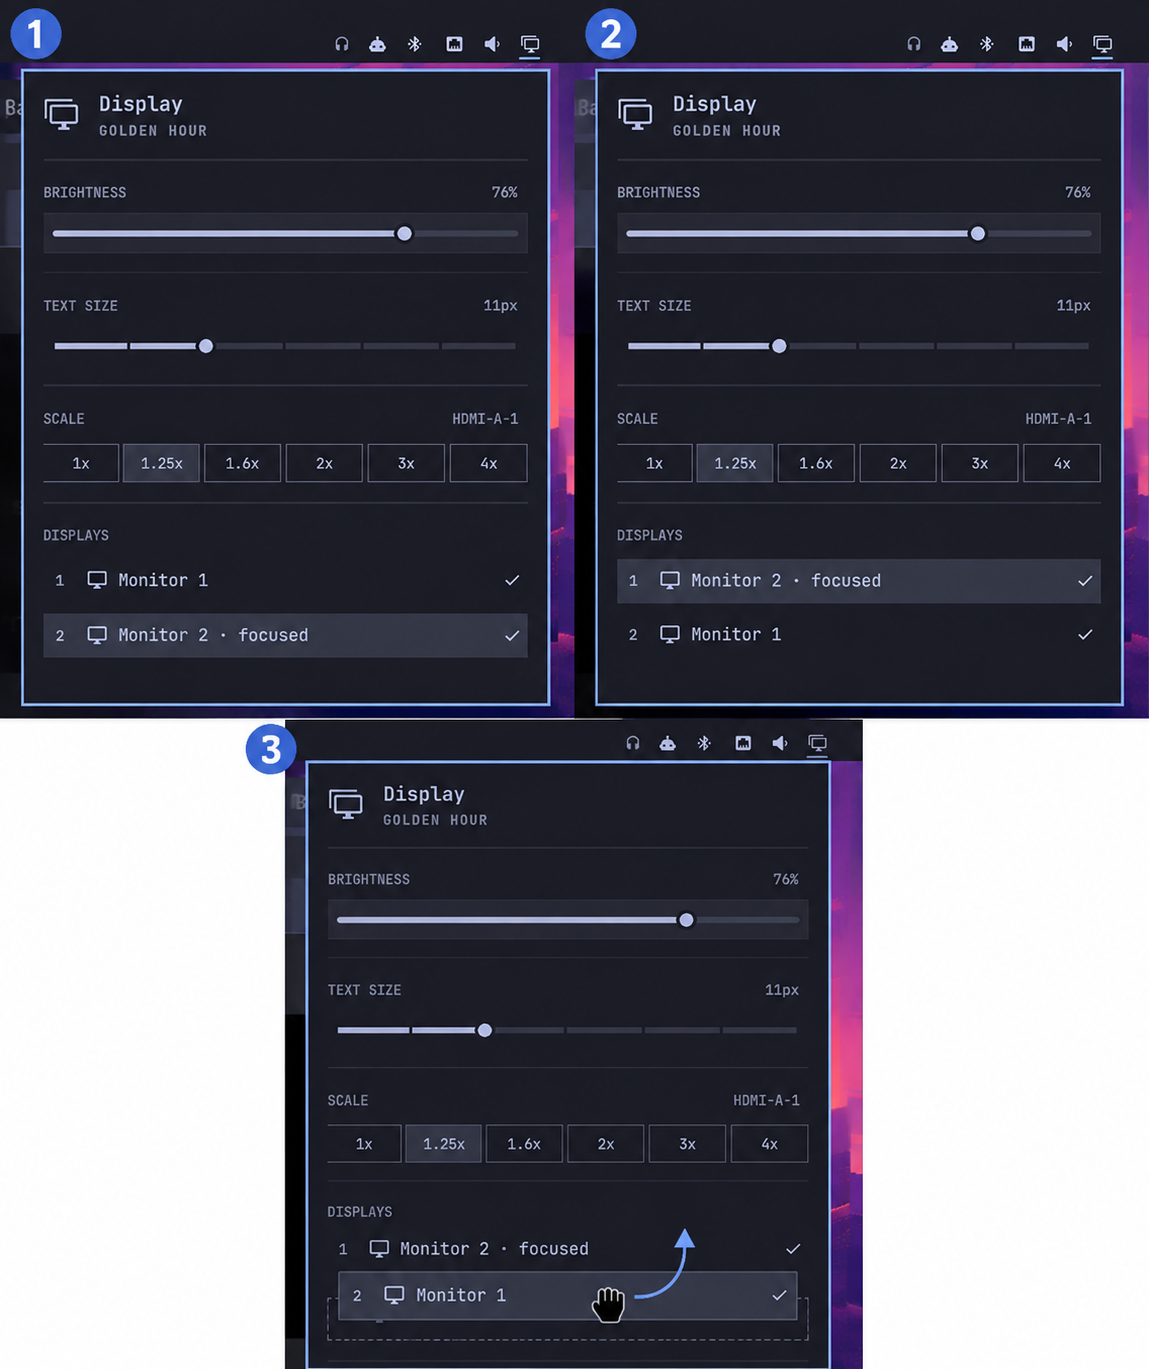
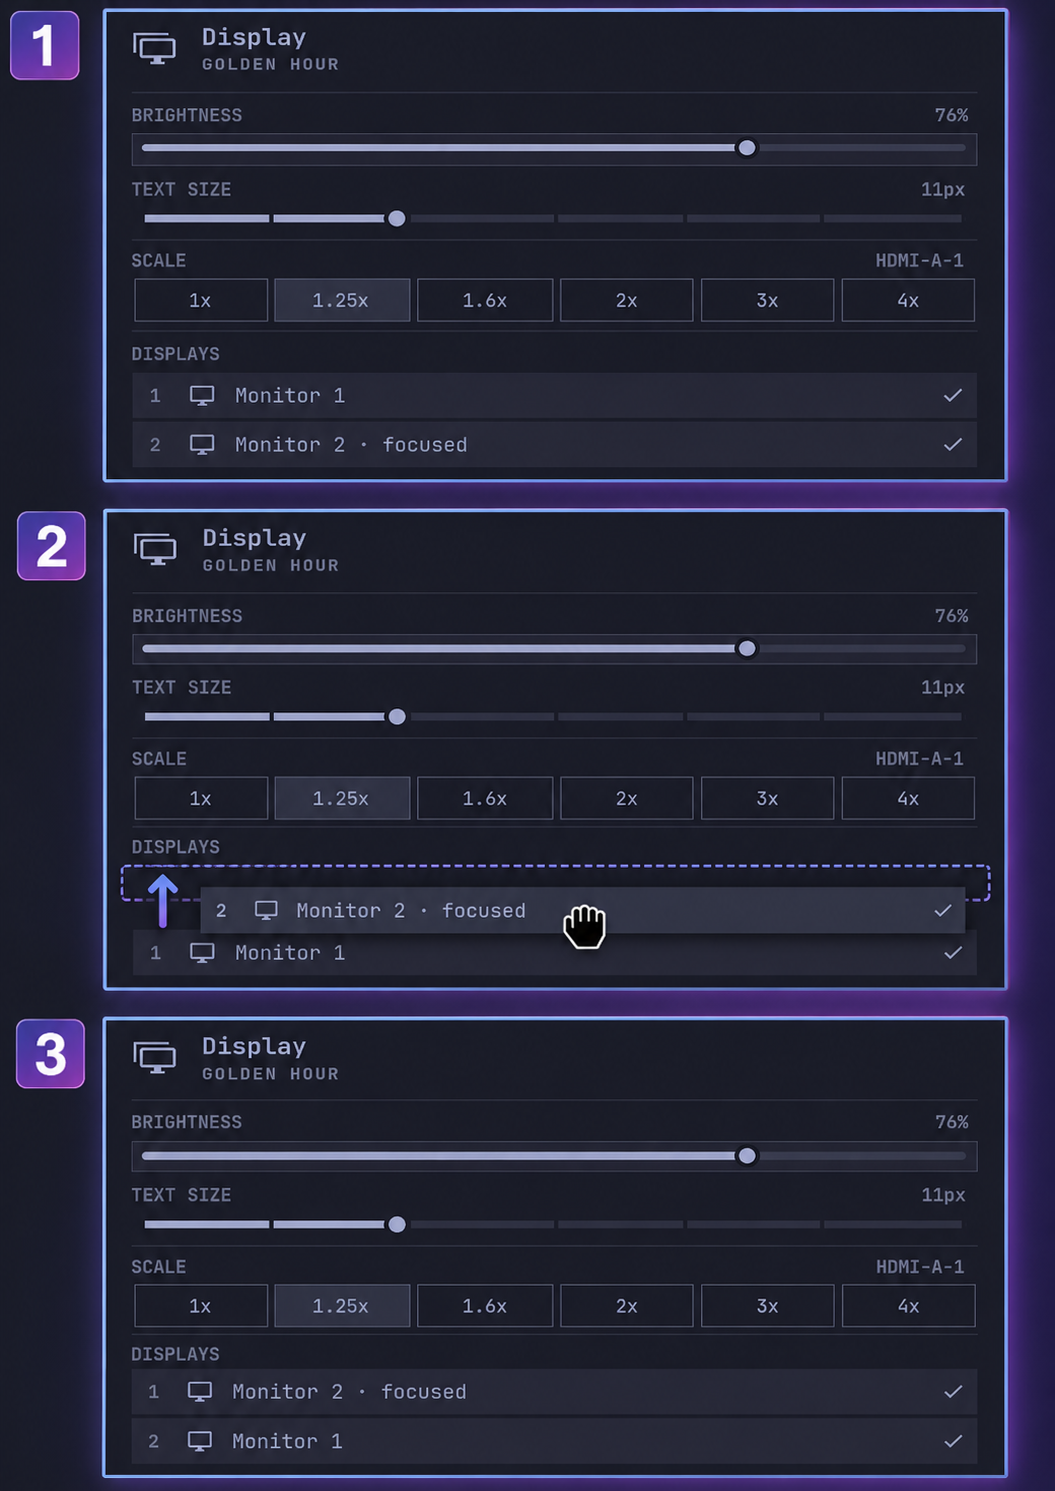
docs: clarify display order behavior

diff --git a/README.md b/README.md
@@ -1,119 +1,126 @@
 # Omarchy Display Order
 
-Drag-and-drop display ordering for Omarchy. Arrange your monitors visually and keep Hyprland display layout and scaling in sync.
+Ordene visualmente os monitores do Omarchy e mantenha a disposição lógica e a escala do Hyprland em sincronia.
 
-## What it does
+## Visão geral
 
-Omarchy Display Order adds numbering and drag-and-drop ordering to Omarchy's **Displays** section. For example:
-
-```text
-1 Monitor 1
-2 Monitor 2
-```
-
-Dragging a row changes the logical left-to-right arrangement in Hyprland. For example:
+O plugin adiciona numeração e arrastar-e-soltar à seção **Displays** do Omarchy. Ele reordena e identifica somente displays **habilitados e não espelhados**.
 
 ```text
-Before:
-1 Monitor 1
-2 Monitor 2
-
-After dragging Monitor 2 upward:
-1 Monitor 2
-2 Monitor 1
+Antes                         Depois de arrastar o Monitor 2
+1  Monitor 1                  1  Monitor 2
+2  Monitor 2                  2  Monitor 1
 ```
 
-- Drag-and-drop display ordering
-- Hover-to-identify physical displays
-- Automatic logical positioning
-- Scale-aware layout calculations
-- Persistence across reboot
-- Reload-safe monitor configuration
-- Support for one, two, or three or more monitors
+Ao soltar uma linha, a primeira posição vira o monitor lógico mais à esquerda; as demais seguem da esquerda para a direita. O plugin muda a geometria dos displays, não move janelas entre saídas físicas.
 
-## Screenshots
+### Recursos
 
-Drag a monitor row to change the left-to-right display order.
+- Arrastar-e-soltar para reordenar displays.
+- Identificação do monitor físico ao manter o cursor sobre uma linha.
+- Posicionamento lógico automático, considerando escala e rotação.
+- Escala no monitor em foco.
+- Ajuste de brilho e tamanho do texto.
+- Ativar ou desativar monitores (o último display ativo não pode ser desativado).
+- Persistência da ordem e restauração segura após recarregamentos.
 
-![Dragging Monitor 1 below Monitor 2 changes their logical order](assets/drag-and-drop-ordering.png)
+## Exemplo visual
 
-## Requirements
+Arraste uma linha para alterar a ordem lógica da esquerda para a direita:
 
-- Omarchy 4.0.1-1, using its shell plugin system and `omarchy plugin` commands
-- Hyprland 0.56.2
-- `hyprctl`, `jq`, `flock`, and `luac` (provided by the development installation)
+![Arrastar uma linha de monitor altera a ordem lógica](assets/drag-and-drop-ordering.png)
 
-These are the versions and features used during development and validation. Compatibility with other Omarchy or Hyprland versions has not been tested.
+## Requisitos
 
-## Installation
+- Omarchy 4.0.1-1, com o sistema de plugins e os comandos `omarchy plugin`.
+- Hyprland 0.56.2.
+- `hyprctl`, `jq`, `flock` e `luac` (requisitos de execução do plugin; `luac` é necessário para validar e atualizar `monitors.lua`).
 
-Install with Omarchy's official plugin mechanism:
+Estas são as versões usadas no desenvolvimento e na validação. A compatibilidade com outras versões de Omarchy ou Hyprland não foi testada.
+
+## Instalação
+
+Instale pelo mecanismo oficial de plugins do Omarchy:
 
 ```bash
 omarchy plugin add https://github.com/rsendres/omarchy-display-order.git --enable
 ```
 
+## Uso
 
-## Usage
+Abra **Setup → Display**. Em **DISPLAYS**, arraste as linhas numeradas até a ordem desejada.
 
-Open **Setup → Display**. In **DISPLAYS**, drag the numbered monitor rows into the desired order.
+### Identificar um display
 
-The first row becomes the leftmost logical display in Hyprland, followed by the remaining rows from left to right.
+Mantenha o ponteiro sobre uma linha por dois segundos. O número da linha aparece no canto superior esquerdo do display físico correspondente e permanece enquanto o cursor estiver sobre a linha. Ele desaparece ao sair; durante o arrastar-e-soltar, a identificação fica desativada. O plugin usa o nome da saída do Hyprland, como `DP-2` ou `HDMI-A-1`.
 
-When displays are explicitly reordered and their active workspaces are exactly the default numeric set `1..N`, the plugin renumbers those workspace IDs to match the new display slots. This does not move workspaces, windows, or clients between physical outputs. Custom, named, mixed, and special workspaces are left untouched; only the display geometry changes.
+### Escala, brilho e texto
 
-### Identify a display
+- **Scale** atua no monitor em foco e só pode ser aplicado com um `order.json` válido e com o monitor em foco habilitado e não espelhado.
+- As predefinições de escala são reduzidas à unidade válida mais próxima de `1/120`. A interface mostra duas casas decimais; a configuração gerada preserva seis algarismos significativos.
+- **Brightness** ajusta o brilho por meio de `omarchy-brightness-display` quando o controle está disponível; a disponibilidade é determinada pelo retorno válido desse comando.
+- **Text size** ajusta o tamanho do texto na interface.
+- Os controles de habilitar/desabilitar monitor respeitam a regra de que sempre deve restar um display ativo.
 
-Park the mouse pointer over a monitor row for two seconds to print its current
-list number on that physical display, in the upper-left corner. The identifier
-remains visible while the pointer stays on the row, disappears immediately on
-exit, and is disabled during drag-and-drop. It uses the Hyprland output name
-(for example, `DP-2` or `HDMI-A-1`) to select the matching physical display.
+### Workspaces
 
-## How it works
+Durante uma reordenação explícita, o plugin pode renumerar temporariamente apenas os workspaces base padrão elegíveis quando o conjunto ativo for exatamente `1..N` **e** os nomes corresponderem aos padrões. Workspaces nomeados, mistos ou especiais não são renumerados nem gerenciados permanentemente pelo plugin. A alteração não move janelas entre saídas físicas.
 
-- `order.json` is the source of the preferred monitor order.
-- Hyprland receives a layout with `0x0` for the first monitor and `auto-right` for each following monitor.
-- Logical widths account for each monitor's scale and rotation.
-- Scale presets are reduced to the nearest mode-valid `1/120` unit. The UI presents the effective value to two decimal places, while the generated monitor configuration preserves six significant digits.
-- A managed block in `monitors.lua` makes reloads safe.
-- `Service.qml` restores the saved display order/layout during startup. The plugin neither imposes workspace numbers nor creates or permanently manages workspaces.
+```mermaid
+flowchart LR
+    A[Ordem salva] --> B{Workspaces ativos = 1..N<br/>com nomes padrão?}
+    B -- Sim --> C[Renumerar workspaces base]
+    B -- Não --> D[Manter workspaces]
+    C --> E[Aplicar geometria dos displays]
+    D --> E
+```
 
-## Uninstall / rollback
+## Persistência e restauração
 
-If the managed monitor block should be removed before uninstalling, run:
+- `order.json` é a fonte da ordem preferida dos monitores.
+- A geometria ao vivo pode usar coordenadas calculadas. As regras persistidas usam `0x0` no primeiro monitor e `auto-right` nos seguintes.
+- Na inicialização, a restauração exige uma ordem salva e o contexto de sessão/runtime do Hyprland. Ela roda uma vez por assinatura de sessão do Hyprland; se falhar, não fica tentando indefinidamente na mesma sessão.
+- Um bloco gerenciado em `monitors.lua` torna os recarregamentos seguros.
+
+## Recuperação e desinstalação
+
+Para remover **somente** o bloco `monitors.lua` gerenciado pelo plugin:
 
 ```bash
 scripts/reorder-displays --remove-config-block
 ```
 
-When the plugin rewrites `~/.config/hypr/monitors.lua`, it keeps the five newest plugin-owned timestamped backups alongside the file. Backups created by other tools are not managed.
+Isso não é uma reversão completa da configuração. `--restore-last` tenta restaurar o último snapshot de layout ao vivo salvo pelo plugin; exige que esse snapshot exista e que o Hyprland esteja acessível, e não oferece garantia de recuperação offline.
 
-Then remove the plugin through Omarchy:
+Ao reescrever `~/.config/hypr/monitors.lua`, o plugin mantém as cinco cópias de backup mais recentes criadas por ele, com timestamp, ao lado do arquivo. Backups de outras ferramentas não são gerenciados.
+
+Depois, remova o plugin pelo Omarchy:
 
 ```bash
 omarchy plugin remove omarchy-display-order.display-order
 ```
 
-## Known limitations
+## Limitações
 
-- Advanced automatic hotplug handling has not been implemented yet.
+- O tratamento automático avançado de hotplug ainda não foi implementado.
+- A restauração depende de `order.json` e de um contexto de sessão/runtime válido do Hyprland.
+- Fora da renumeração temporária de workspaces base padrão elegíveis durante uma reordenação explícita, o plugin não cria nem gerencia permanentemente workspaces arbitrários.
 
-## Development
+## Desenvolvimento
 
-Run these checks from the plugin root:
+Execute os checks a partir da raiz do plugin:
 
 ```bash
 bash -n scripts/reorder-displays
 tests/test_reorder_displays.sh
-tests/test_scale_normalization.sh
+bash tests/test_scale_normalization.sh
 luac -p "$HOME/.config/hypr/monitors.lua"
 git diff --check
 omarchy plugin validate .
 ```
 
-If `qmlformat` is installed, format or validate the QML files before committing:
+Se `qmlformat` estiver instalado, formate ou valide os arquivos QML antes de contribuir:
 
 ```bash
-qmlformat -i Panel.qml Service.qml
+qmlformat -i Panel.qml Service.qml MonitorIdentifier.qml
 ```
